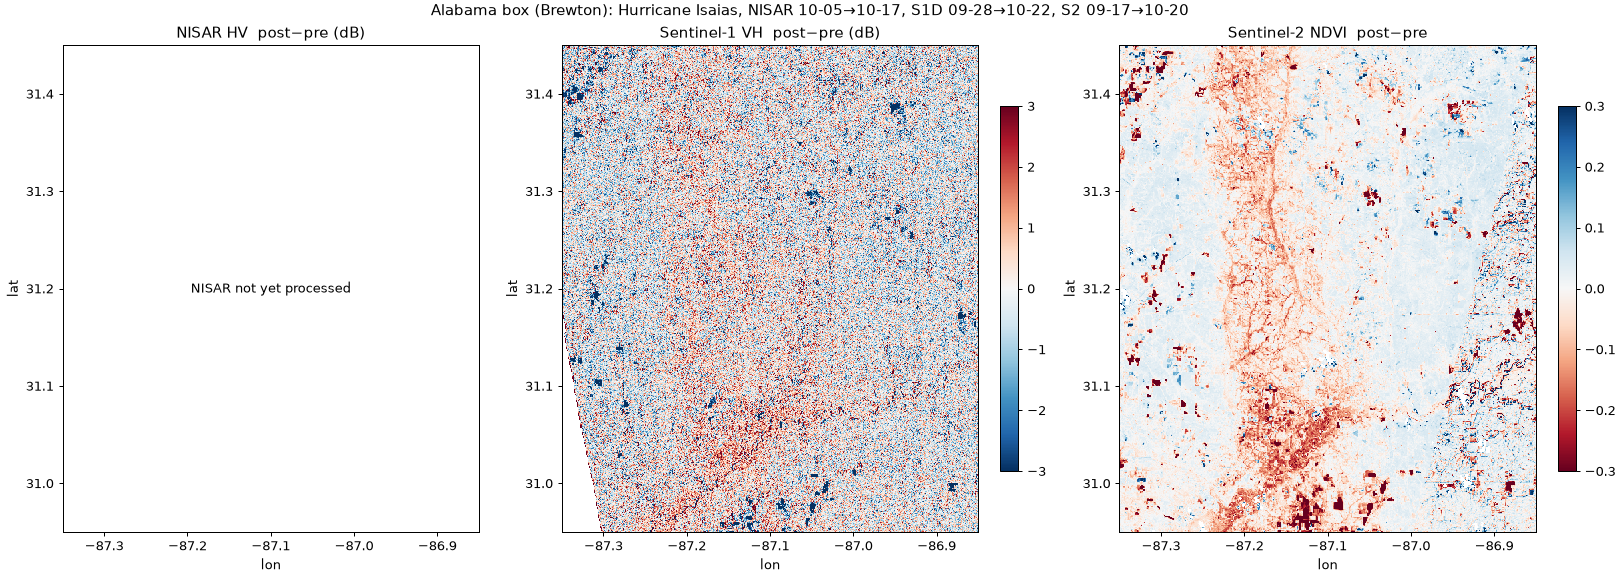
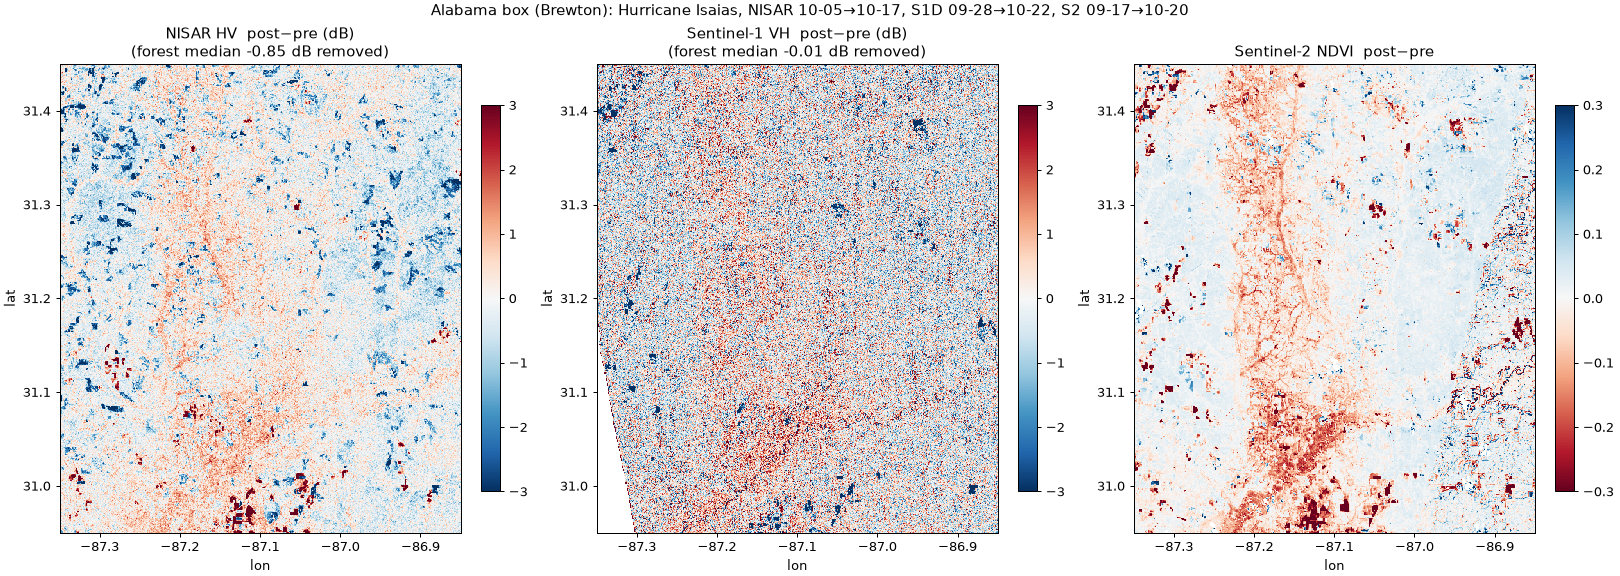
NISAR HH/HV differences, swath profiles, final gate report (PASS on Alabama box)

diff --git a/scripts/swath_profile.py b/scripts/swath_profile.py
@@ -1,0 +1,27 @@
+"""Longitude profiles (mean over forest, per column) of NISAR dHV/dHH, S1 dVH and S2 dNDVI per box,
+plus in/out-of-NDVI-drop contrasts for HH. A N-S swath shows up as a matching bump in the profiles."""
+import json
+import numpy as np, matplotlib
+matplotlib.use("Agg"); import matplotlib.pyplot as plt
+out = {}
+fig, axs = plt.subplots(2, 1, figsize=(10, 8), constrained_layout=True)
+for ax, name in zip(axs, ("AL", "FL")):
+    ee = np.load(f"data/ee_{name}.npz"); ni = np.load(f"data/nisar_{name}.npz"); e = ee["extent"]
+    forest = ee["forest"] == 1; dn = ee["dNDVI"]
+    ok = forest & (dn > -0.5)  # exclude water
+    lon = e[0] + (np.arange(dn.shape[1]) + .5) * float(ee["res"])
+    def prof(a):
+        a = np.where(ok & np.isfinite(a), a, np.nan); return np.nanmean(a, axis=0)
+    P = {"NISAR dHV": prof(ni["dHV"]), "NISAR dHH": prof(ni["dHH"]), "S1 dVH": prof(ee["dVH"]), "S2 dNDVI": prof(dn)}
+    r = {k: float(np.corrcoef(*[np.nan_to_num(x - np.nanmean(x)) for x in (v, P["S2 dNDVI"])])[0, 1]) for k, v in P.items() if k != "S2 dNDVI"}
+    drop = forest & (dn < -0.10) & (dn > -0.5); keep = forest & (dn >= -0.02)
+    out[name] = {"profile_r_vs_dNDVI": r,
+                 "NISAR_dHH_in_drop": float(np.nanmean(ni["dHH"][drop])), "NISAR_dHH_no_drop": float(np.nanmean(ni["dHH"][keep])),
+                 "NISAR_dHV_in_drop": float(np.nanmean(ni["dHV"][drop])), "NISAR_dHV_no_drop": float(np.nanmean(ni["dHV"][keep]))}
+    for k, v in P.items():
+        z = (v - np.nanmean(v)) / np.nanstd(v)
+        ax.plot(lon, -z if k == "S2 dNDVI" else z, label=k + (" (sign flipped)" if k == "S2 dNDVI" else ""), lw=1.2)
+    ax.set_title(f"{name}: column-mean over forest (standardised); up = more damage-like for NDVI")
+    ax.set_xlabel("lon"); ax.legend(fontsize=8); ax.axhline(0, c="k", lw=.5)
+fig.savefig("docs/gate/fig_profiles.png", dpi=90)
+json.dump(out, open("docs/gate/profiles.json", "w"), indent=1); print(json.dumps(out, indent=1))

diff --git a/scripts/nisar_process.py b/scripts/nisar_process.py
@@ -51,7 +51,10 @@ def read_box(path, box):
         g = f[GRID]
         epsg = epsg_of(g)
         rs, cs, xc, yc = window(g, box, epsg)
-        out = {p: g[p][rs, cs].astype("float32") for p in ("HHHH", "HVHV")}
+        m = g["mask"][rs, cs]
+        bad = (m == 0) | (m == 255)  # spec: 0 = partially focused/invalid, 255 = outside acquisition
+        out = {p: np.where(bad, np.nan, g[p][rs, cs]).astype("float32") for p in ("HHHH", "HVHV")}
+        out["invalid_frac"] = float(bad.mean())
         return out, xc[cs], yc[rs], epsg
 
 
@@ -78,7 +81,7 @@ def resample_to_ee(diff, xc, yc, epsg, box, res):
 
 
 t0 = time.time()
-paths = {k: os.path.join(NDIR, v["file"]) for k, v in LOG.items()}
+paths = {k: os.path.join(NDIR, LOG[k]["file"]) for k in ("pre", "post")}
 for k, p in paths.items():
     with h5py.File(p, "r") as f:
         print(k, os.path.basename(p)); describe(f)
@@ -103,6 +106,7 @@ for name, box in EXT.items():
         out[key + "_native_median"] = float(np.nanmedian(d))
     np.savez_compressed(f"data/nisar_{name}.npz", dHH=out["dHH"], dHV=out["dHV"], extent=np.array(box), res=res)
     summary[name] = {"epsg": e1, "posting_m": float(abs(dx1)), "native_shape": [len(yg), len(xg)],
+                     "invalid_frac_pre": pre["invalid_frac"], "invalid_frac_post": post["invalid_frac"],
                      "median_dHH_dB": out["dHH_native_median"], "median_dHV_dB": out["dHV_native_median"]}
     print(name, summary[name])
 proc = psutil.Process()

diff --git a/scripts/make_figures.py b/scripts/make_figures.py
@@ -21,8 +21,12 @@ for name, title in (("AL", "Alabama box (Brewton)"), ("FL", "Florida box (Milton
             a.text(0.5, 0.5, "NISAR not yet processed", ha="center", va="center", transform=a.transAxes)
             a.set_xlim(ext[0], ext[1]); a.set_ylim(ext[2], ext[3])
         else:
+            if "dB" in t:  # remove scene-wide offset (calibration/moisture) so the relative pattern is readable
+                med = float(np.nanmedian(arr[forest])); arr = arr - med
+                t = t + "\n" + f"(forest median {med:+.2f} dB removed)"
             im = a.imshow(arr, extent=ext, cmap=cm, vmin=-v, vmax=v, interpolation="nearest")
             fig.colorbar(im, ax=a, shrink=0.75)
+            # stats use offset-removed values; the in-vs-out contrast and r are unaffected
             key = t.split()[0] + ("_" + t.split()[1] if t.startswith("Sentinel") else "")
             ok = np.isfinite(arr) & np.isfinite(dn) & forest & (dn > -0.5)
             s[key] = {"mean_in_ndvi_drop": float(np.nanmean(arr[drop])), "mean_in_no_drop": float(np.nanmean(arr[keep])),

diff --git a/docs/gate/gate.md b/docs/gate/gate.md
@@ -1,8 +1,8 @@
 # Blowdown gate check: Hurricane Isaias (2026-10-10)
 
-**Status: INCOMPLETE. The NISAR step is blocked, so there is no PASS/FAIL verdict yet.**
-The NISAR download fails with Earthdata "Pre authorization required" for the ASF data-access app
-(`client_id=BO_n7nTIlMljdvU6kRRB3g`). John has to approve that app on his Earthdata account. Everything else below is done.
+**PASS: in the Alabama box the damage band shows in the NISAR HV difference and lines up with the Sentinel-2 NDVI drop (column-profile r = −0.88; HV is +0.52 dB higher where NDVI dropped). Florida shows no distinct swath.**
+
+Caveat on the verdict: the Alabama band has branching (dendritic) edges, and I could not confirm whether it is wind damage or riparian/flood effects (see "Not verified").
 
 ## Inputs
 
@@ -21,49 +21,62 @@ The NISAR download fails with Earthdata "Pre authorization required" for the ASF
 | AL | 2026-09-17 | 0.5% | 0.9, 10.5 | 2026-10-20 | 0.0% | 0.1, 0.0, 0.1, 0 |
 | FL | 2026-09-17 | 0.0% | 1.1, 0.9, 9.0, 10.5 | 2026-10-20 | 0.0% | 0.0–0.1 (6 granules) |
 
-## NISAR files
+## NISAR files, timing, memory
 
-| Scene | File | Size |
-|---|---|---|
-| Pre | `NISAR_L2_PR_GCOV_032_076_A_017_4005_DHDH_A_20261005T110224_20261005T110258_P05023_N_F_J_001.h5` | 6,002,049,024 B (6.00 GB) |
-| Post | `NISAR_L2_PR_GCOV_033_076_A_017_4005_DHDH_A_20261017T110224_20261017T110259_P05023_N_F_J_001.h5` | 6,165,626,880 B (6.17 GB) |
+| Scene | File | Size | Download time |
+|---|---|---|---|
+| Pre | `NISAR_L2_PR_GCOV_032_076_A_017_4005_DHDH_A_20261005T110224_20261005T110258_P05023_N_F_J_001.h5` | 6,002,049,024 B (6.00 GB) | 859 s |
+| Post | `NISAR_L2_PR_GCOV_033_076_A_017_4005_DHDH_A_20261017T110224_20261017T110259_P05023_N_F_J_001.h5` | 6,165,626,880 B (6.17 GB) | 837 s |
 
-Download time: **not measured yet (blocked).** Peak RAM: **not measured yet.**
-Both are under the 10 GB limit. Sizes come from the ASF search metadata.
+- The two files took 28 min in total, downloaded one after the other at about 7 MB/s. The bytes on disk match the ASF metadata exactly.
+- **Peak RAM** for the NISAR processing was **2.70 GB** (Windows peak working set; the run took 22 s). The download process peaked at 77 MB.
+- **Structure** (inspected, product spec v1.5.0). Backscatter is in `/science/LSAR/GCOV/grids/frequencyA/HHHH` and `HVHV`: float32 linear gamma0 (RTC), NaN fill, 34344 × 34920 px, 512² gzip chunks.
+- **Grid:** EPSG:32616 (UTM 16N) at 10 m. Both cycles have an identical grid (same origin and posting), checked in code before subtracting. frequencyB (the coarse 5 MHz layer) was not used.
+- **Validity mask:** `mask` = 0 means partially focused and 255 means outside the acquisition. Both are masked, and 0% of either box was affected. `hasInputDataException` = 0 in both files.
+- **Processing:** I read only the box window plus 0.01° of margin, applied a NaN-aware 5×5 boxcar (50 m) in linear power, converted to dB, took post − pre at 10 m, then mean-aggregated onto the shared figure grid.
+- **Offset:** there is a scene-wide offset of about −0.85 dB HV and −0.8 dB HH, probably calibration or soil moisture. It's removed from the map panels (stated in each panel title) and doesn't affect the contrasts below.
 
 ## Figures
 
-All three panels in each figure share one EPSG:4326 grid at 0.0008° (~80 m).
+All three panels in each figure share one EPSG:4326 grid at 0.0008° (~80 m), with the same extent.
 Colours are set so that **red = expected damage** in every panel: radar backscatter increase is red, NDVI drop is red.
 
 ![Alabama](fig_AL.png)
 ![Florida](fig_FL.png)
 
-## What is visible
+Column-mean profiles over forest (water excluded), standardised. A north–south swath shows up as a shared bump:
 
-**Alabama box.** Sentinel-2 NDVI shows a coherent north–south band of canopy loss along roughly lon −87.17 to −87.10,
-widening to the south (−87.15, 31.05). Its edges are **branching (dendritic)**, following the drainage network,
-so it may be bottomland/riparian forest damage, or flood effects, rather than a clean wind swath. I can't separate those from these data.
-The small blocky drops are almost certainly ordinary clearcuts. Sentinel-1 VH is speckle-dominated, with only a faint
-positive band in the same southern area. Inside the NDVI-drop forest mask, VH changed by +0.46 dB, against −0.12 dB in forest with no drop
-(Pearson r vs dNDVI over forest = −0.14). That's a weak agreement.
+![profiles](fig_profiles.png)
 
-**Florida box.** NDVI drops broadly across most of the box, so there is no distinct linear swath. The strongest drops (dNDVI < −0.5)
-are **flood water** along the Blackwater/Yellow River margins, confirmed in the aerial chips. Sentinel-1 shows that
-water as a strong VV/VH decrease. Over forest, S1 VH is +0.50 dB in NDVI-drop areas vs +0.15 dB elsewhere (r = −0.09).
+## Is a linear swath visible, and do the three agree?
 
-Agreement stats are in [stats.json](stats.json). The NDVI-drop mask is forest with −0.5 < dNDVI < −0.10; the no-drop mask is forest with dNDVI ≥ −0.02.
+| | NISAR HV | Sentinel-1 VH | Sentinel-2 NDVI | Agree? |
+|---|---|---|---|---|
+| **AL** | **Yes.** N–S band of relative HV increase, lon ≈ −87.22 to −87.05, sharp western edge at −87.23, bulge near (−87.12, 31.05) | Faint, same band, speckle-dominated | **Yes.** Clear N–S band of canopy loss, same position and edge | **Yes.** Profile r vs dNDVI: NISAR HV −0.88, S1 VH −0.89, NISAR HH −0.66 |
+| **FL** | No distinct swath; patchy | No distinct swath | Broad drop over most of the box, no linear band; strongest drops are flood water | Weak. Profile r: NISAR HV −0.39, S1 VH −0.41, NISAR HH +0.08 |
+
+Contrast over NLCD forest, with "NDVI drop" defined as −0.5 < dNDVI < −0.10 and "no drop" as dNDVI ≥ −0.02. dNDVI < −0.5 is excluded because it is mostly flood water.
+
+| Box | NISAR dHV drop / no-drop (dB) | NISAR dHH drop / no-drop (dB) | S1 dVH drop / no-drop (dB, offset-removed) | pixel-level r (NISAR HV, S1 VH) |
+|---|---|---|---|---|
+| AL | −0.45 / −0.97 (**+0.52**) | −0.26 / −0.76 (+0.49) | +0.48 / −0.11 (+0.59) | −0.27, −0.14 |
+| FL | −0.42 / −0.66 (+0.24) | −0.71 / −0.98 (+0.27) | +0.16 / −0.19 (+0.34) | −0.12, −0.09 |
+
+The swath is clear in both radars when you average along it (profiles). At ~80 m per pixel it's noisy, with low pixel-level r. HH rises about as much as HV inside the Alabama band. A flooded forest would normally give a much larger HH (double-bounce) jump, so that is weak evidence against flooding on 10-17. It isn't proof.
+
+Raw numbers: [stats.json](stats.json), [profiles.json](profiles.json).
 
 ## Aerial truth (Florida box)
 
 - Asset: ImageCollection with 5,599 RGB tiles (15 cm), flown 2026-10-10 to 2026-10-13.
   Bounds of the whole collection: lon −89.66 to −85.22, lat 29.42 to 30.81 (bounding box, not a dissolved outline).
-  **None of the tiles reach the Alabama box.**
+  **None of the tiles reach the Alabama box**, so the box that passes has no aerial truth.
 - Inside the Florida box: 236 tiles, dissolved footprint **256.3 km²** of the box's 797.6 km².
 - **Forest inside the aerial footprint within the Florida box: 99.3 km²** (of 388.1 km² forest in the whole box).
 
 Six ~150 m chips over NLCD forest inside the footprint: three at a moderate NDVI drop, three random (seed 7).
 I first picked the three strongest drops, but all three were flood water, so I re-picked with −0.5 < dNDVI < −0.15.
+Locations and values are in [thumbs/thumbs.json](thumbs/thumbs.json).
 
 ![aerial](aerial_thumbs.png)
 
@@ -72,12 +85,14 @@ a few scattered fallen stems. At 15 cm individual windthrow is resolvable, so th
 
 ## Not verified
 
-- Everything NISAR: HDF5 structure, CRS and posting match across cycles, HH/HV differences, download time, peak RAM.
-- Whether the Alabama NDVI band is wind damage or flooding/riparian effects.
-- Clearcut vs storm loss for the small blocky NDVI drops (I didn't use a harvest mask).
-- Sentinel-1 corner gaps (2–4% of each box) are masked, not filled.
+- **What causes the Alabama band:** wind blowdown, or riparian/bottomland effects (flooding, leaf stripping), given its dendritic edges. There is no aerial imagery or field data there.
+- **Range-direction trends:** the profiles run east–west, which is roughly NISAR's range direction, so an incidence-angle trend could add a smooth gradient. The sharp shared edge at −87.23 argues against that explaining the match, but I didn't model it.
+- **Clearcuts:** the small blocky changes (strong in both NISAR and NDVI) are probably harvests, not storm damage. I didn't use a harvest mask.
+- **Non-forest changes:** the large negative NISAR HV patches in Alabama are non-forest fields and are not interpreted.
+- **Sentinel-1 gaps:** the corner gaps (2–4% of each box) are masked, not filled.
+- **NISAR product status:** the `_PR_` products are provisional (`NISAR_L2_GCOV_PROVISIONAL_V1`), so calibration may change; that may be where the −0.85 dB offset comes from.
 
-## Verdict
+## Reproduce
 
-**PENDING: NISAR has not been downloaded.** On the optical/C-band evidence alone, Alabama is the box most likely to pass.
-Florida's signal is dominated by flooding.
+Scripts are in `scripts/`, run with `.venv/Scripts/python -I`. Run them in order: `nisar_search`, `nisar_download data/nisar`, `s1_check`/`s1_cover`, `s2_select`,
+`noaa_forest`, `ee_panels`, `noaa_thumbs`, `nisar_process data/nisar`, `make_figures`, `swath_profile`. `data/` is git-ignored.
